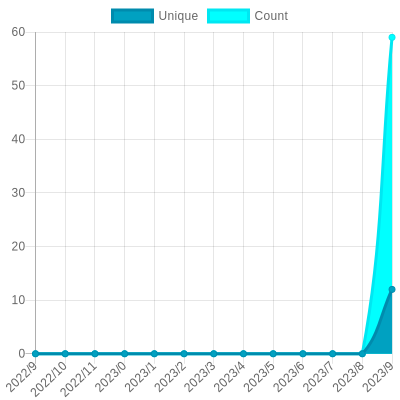
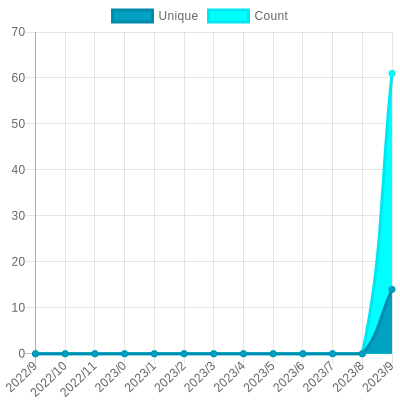
Update views

diff --git a/README.md b/README.md
@@ -26,7 +26,7 @@ The project created and maintained by [gayanvoice](https://github.com/gayanvoice
 			</a>
 		</td>
 		<td>
-			2022/10/21 12:59 AM UTC
+			2022/10/22 1:06 AM UTC
 		</td>
 		<td>
 			18
@@ -42,7 +42,7 @@ The project created and maintained by [gayanvoice](https://github.com/gayanvoice
 			</a>
 		</td>
 		<td>
-			2022/10/21 12:59 AM UTC
+			2022/10/22 1:06 AM UTC
 		</td>
 		<td>
 			17
@@ -53,7 +53,7 @@ The project created and maintained by [gayanvoice](https://github.com/gayanvoice
 	</tr>
 </table>
 
-<small><i>Last updated on 2022/10/23 6:13 PM UTC</i></small>
+<small><i>Last updated on 2022/10/24 1:10 AM UTC</i></small>
 
 ## ✂Copy and 📋 Paste
 ### Total Views Badge

diff --git a/readme/546723876/year.md b/readme/546723876/year.md
@@ -23,10 +23,10 @@
 			<code>2022/10/1</code>
 		</td>
 		<td>
-			<code>12</code>
+			<code>14</code>
 		</td>
 		<td>
-			<code>59</code>
+			<code>61</code>
 		</td>
 	</tr>
 	<tr>
@@ -164,7 +164,7 @@
 </table>
 
 </details>
-<small><i>Last updated on 2022/10/23 6:13 PM UTC</i></small>
+<small><i>Last updated on 2022/10/24 1:10 AM UTC</i></small>
 
 ## ✂Copy and 📋 Paste
 ### SVG Badge

diff --git a/readme/552123895/year.md b/readme/552123895/year.md
@@ -164,7 +164,7 @@
 </table>
 
 </details>
-<small><i>Last updated on 2022/10/23 6:13 PM UTC</i></small>
+<small><i>Last updated on 2022/10/24 1:10 AM UTC</i></small>
 
 ## ✂Copy and 📋 Paste
 ### SVG Badge
